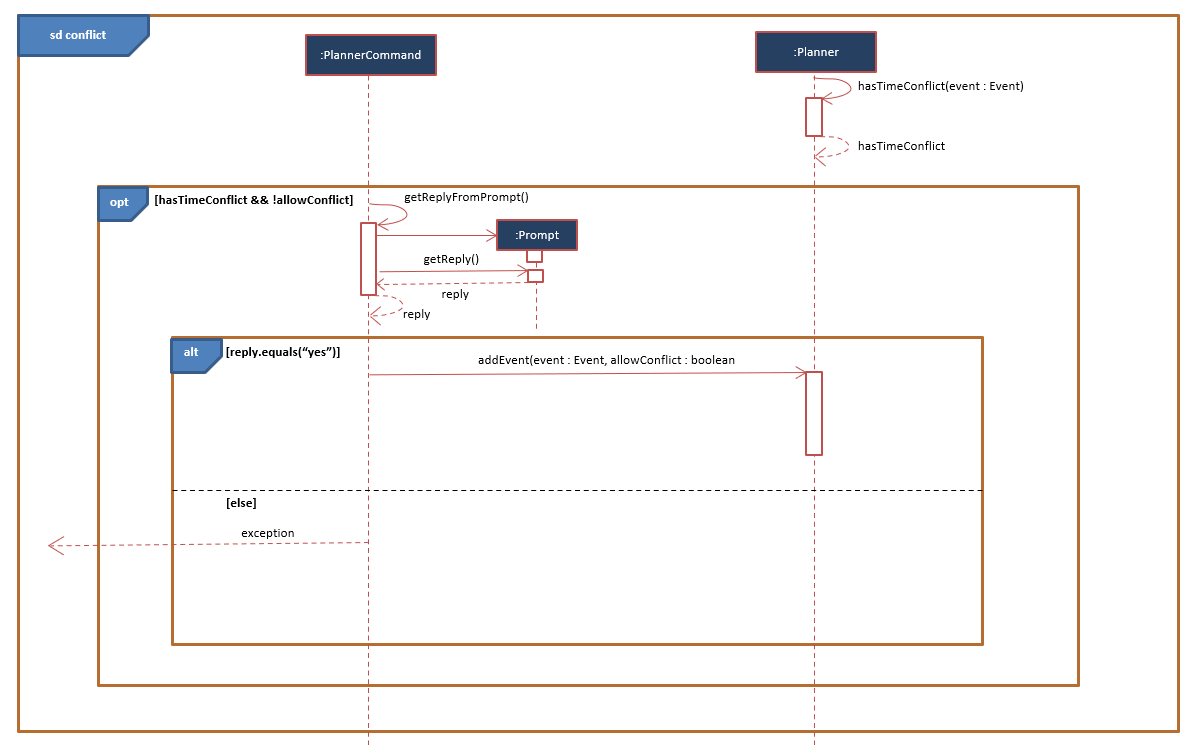
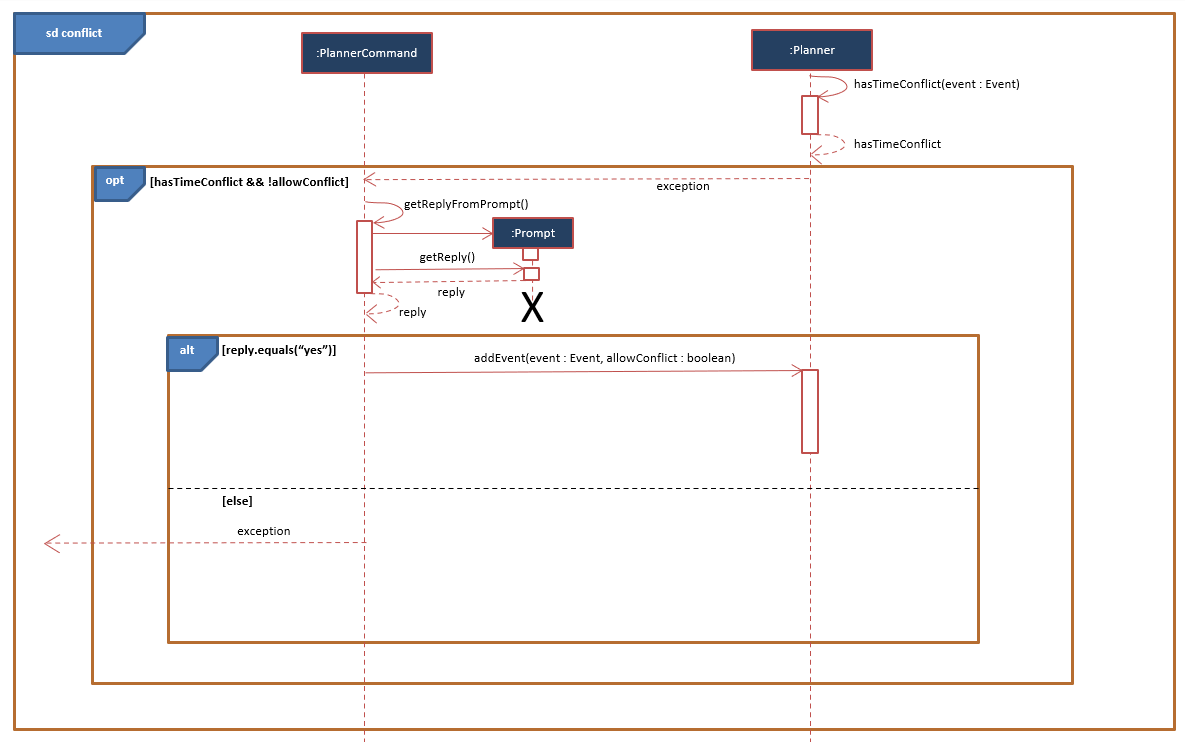
Refine sequence diag for planner add

diff --git a/docs/DeveloperGuide.md b/docs/DeveloperGuide.md
@@ -2,11 +2,10 @@
 * [Acknowledgements](#acknowledgements)
 * [Design](#design)
 * [Implementation](#implementation)
-  * [`timetable add`](#timetable-add-feature)
-    * [Notes about method](#notes-about-the-methods)
-  * [`planner add`](#planner-add-feature)
+  * [`timetable add`](#add-to-timetable-feature)
+  * [`planner add`](#add-to-planner-feature)
   * [`module`](#module-feature)
-  * [`cap`](#cap-calculator-feature)
+  * [`cap`](#cap-calculator-by-code-feature)
   * [`bus`](#bus-routes-feature)
 * [Product Scope](#product-scope)
   * [Target user profile](#target-user-profile)
